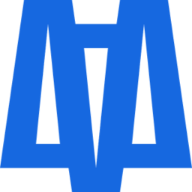
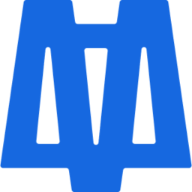
Fix pagespeed insight

Changed region(s): [[0.7188, 0.125, 0.7812, 0.25], [0.4688, 0.75, 0.5312, 0.875], [0.2188, 0.125, 0.2812, 0.25]]

diff --git a/index.html b/index.html
@@ -10,6 +10,7 @@
   <link rel="manifest" href="/site.webmanifest">
   <title>DELLFOKS - Website Development Team</title>
   <link rel="sitemap" type="application/xml" title="Sitemap" href="./sitemap.xml">
+  <meta name="description" content="DELLFOKS adalah sebuah website development team. Friendly, Professional, Solutive.">
   <link rel="stylesheet" href="./base.css">
   <link rel="stylesheet" href="./style.css">
   <script type="application/ld+json">
@@ -24,8 +25,7 @@
 
 <body>
   <div class="container">
-    <img src="./android-chrome-512x512.png" alt="DELLFOKS Logo"
-      style="max-width: 50px; filter: grayscale(100%); opacity: 0.5;">
+    <img src="./logo.png" width="50" height="50" alt="DELLFOKS Logo" style="max-width: 50px;">
     <h1 style="position: absolute; opacity: 0;">
       DELLFOKS
     </h1>

diff --git a/tulisan/perbedaan-website-dan-landing-page.html b/tulisan/perbedaan-website-dan-landing-page.html
@@ -4,6 +4,7 @@
   <meta charset="UTF-8">
   <meta name="viewport" content="width=device-width, initial-scale=1.0">
   <title>Perbedaan Website dan Landing Page | DELLFOKS</title>
+  <meta name="description" content="Website dan landing page adalah dua konsep yang berbeda dalam dunia digital. Berikut adalah perbedaan antara website dan landing page:">
   <link rel="stylesheet" href="../base.css">
 </head>
 <body class="container">

diff --git a/tulisan/index.html b/tulisan/index.html
@@ -4,6 +4,7 @@
   <meta charset="UTF-8">
   <meta name="viewport" content="width=device-width, initial-scale=1.0">
   <title>Tulisan | DELLFOKS</title>
+  <meta name="description" content="Halaman berisi daftar tulisan seputar pengembangan website, dari DELLFOKS untuk semua orang.">
   <link rel="stylesheet" href="../base.css">
 </head>
 <body class="container">

diff --git a/style.css b/style.css
@@ -14,7 +14,7 @@ hr {
   font-family: monospace;
   font-size: 0.825rem;
   letter-spacing: 0.05rem;
-  opacity: 0.5;
+  opacity: 0.75;
 }
 
 .spacer {
